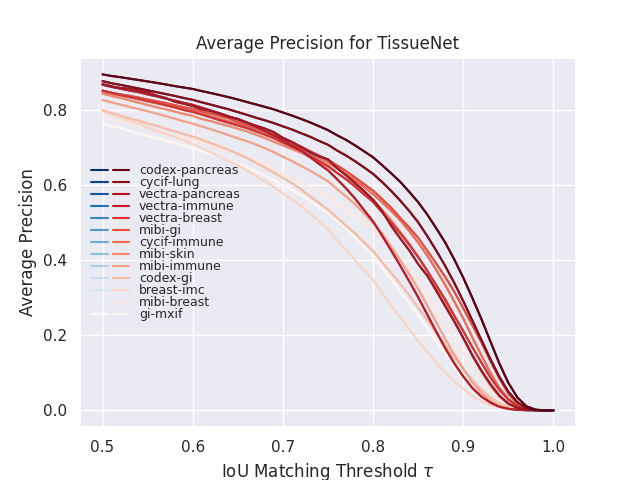
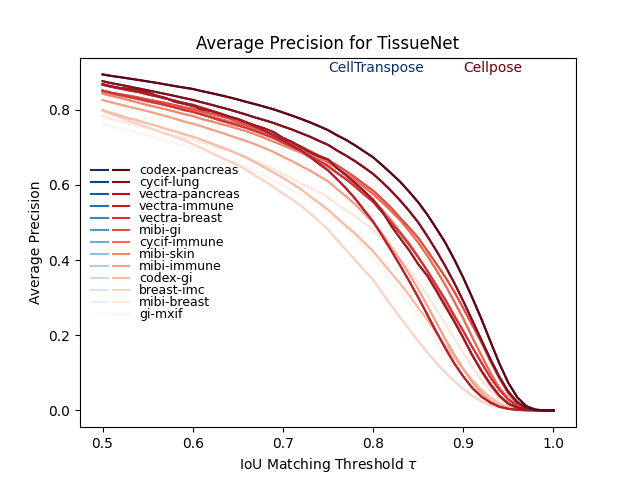
minor

diff --git a/datasets_utils/produce_mult_res_graph.py b/datasets_utils/produce_mult_res_graph.py
@@ -7,7 +7,7 @@ import matplotlib.pyplot as plt
 import matplotlib as mpl
 from matplotlib.legend_handler import HandlerTuple
 import seaborn
-seaborn.set()
+# seaborn.set()
 
 
 path = '/mnt/12F9CADD61CB0337/results/cell_analysis/new_cellTranspose_morphology_loss_pretrained_adaptation_results/Adaptation/TissueNet/3-shot'
@@ -46,12 +46,14 @@ cmap2 = mpl.cm.ScalarMappable(norm=norm, cmap=mpl.cm.Reds)
 
 plots = []
 legends = []
+plt.text(0.75,0.9 ,'CellTranspose', fontsize = 10, color=cmap1.to_rgba(14))
+plt.text(0.9,0.9 ,'Cellpose', fontsize = 10, color=cmap2.to_rgba(14))
 for i in range(len(AP)):
     a, = plt.plot(tau, AP[i], color=cmap1.to_rgba(i+1), marker='', fillstyle='left')
     b, = plt.plot(tau, AP[i], color=cmap2.to_rgba(i+1), marker='', fillstyle='right')
     plots.append((a,b))
     legends.append(os.path.splitext(list(sorted_AP.keys())[i])[0])
-
+    
 plt.legend((plots), (legends), numpoints=1, fontsize=9,  labelspacing=-2, 
            frameon=False, loc='center left', handler_map={tuple: HandlerTuple(ndivide=None)}, handlelength=3)
 plt.savefig('AP Results')
